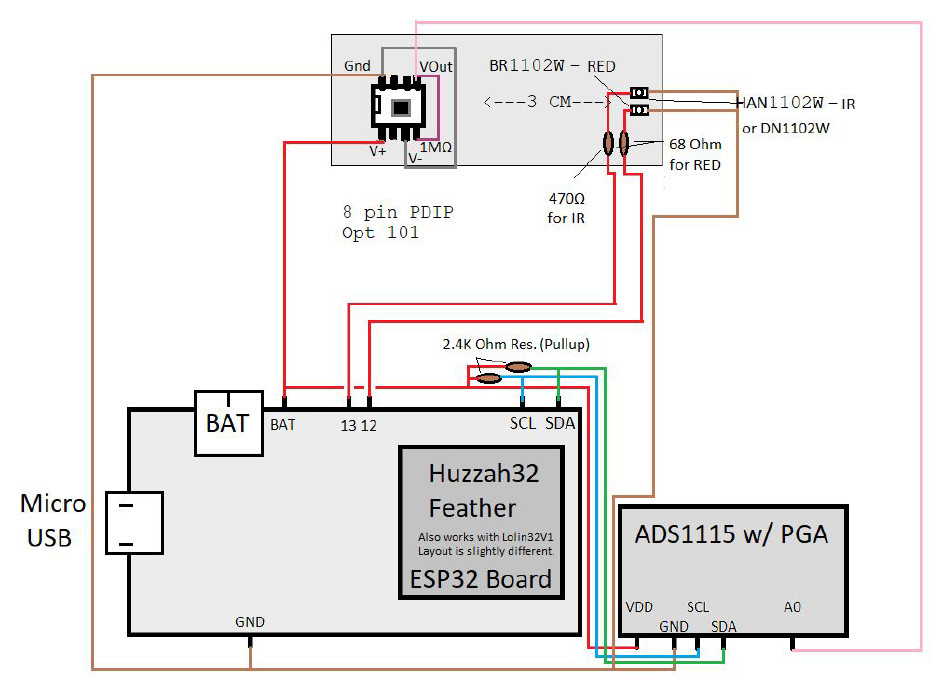
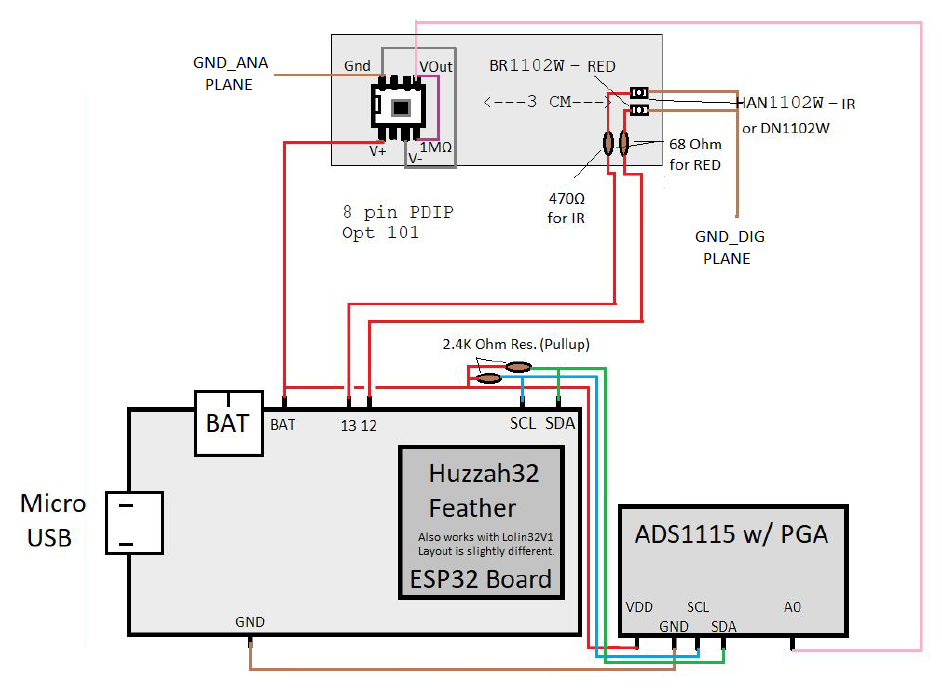
updated schematics

Changed region(s): [[0.0924, 0.0906, 0.2771, 0.9669], [0.6465, 0.3022, 0.8312, 0.9669], [0.1847, 0.0604, 0.2771, 0.1511]]

diff --git a/HEG_WIFI_BLE/HEG.h b/HEG_WIFI_BLE/HEG.h
@@ -2,8 +2,6 @@
 // Contributors - Diego Schmaedech (StateChanger Team)
 // Requires Arduino ADS1x15 library and Arduino ESP32 library, as well as a compatible ESP32 board
 
-// TEST BUILD 0.98
-// 9/13/2019
 /*
    TODO
    - HRV basic calculation, adjust LED flash rate accordingly (50ms is viable at bare min) Alternatively, get an ECG chip or use the MAX30102?
@@ -65,9 +63,9 @@ const int8_t USBRate = 0;         // No need to delay USB unless on old setups.
 const int nSensors = 2;
 const int nLEDs = 4;
 // LED GPIO pin definitions. Default LOLIN32 Pinout, commented values are TTGO T1 pins.
-int RED = 13, IR = 12, REDn = 15, IRn = 2; //Default LED GPIO. n values are LEDs used for noise cancelling.
-int IR0 = 12;    // Default left 3cm LEDs
-int RED0 = 13; //33
+int RED = 12, IR = 13, REDn = 15, IRn = 2; //Default LED GPIO. n values are LEDs used for noise cancelling.
+int IR0 = 13;    // Default left 3cm LEDs
+int RED0 = 12; //33
 int IR1 = 0;//15              // Left 1cm LEDs
 int RED1 = 18;//2
 int IR2 = 26;             // Right 1cm LEDs
@@ -198,7 +196,7 @@ bool badSignal = false;        // Bool for too high of an ADC reading
 bool signalDetermined = false; // Bool for whether the ADC reading is within desired range
 
 //Counters
-int ticks0, redTicks, irTicks, ratioTicks, adcTicks, noLEDTicks = 0;
+int ticks0, redTicks, irTicks, ratioTicks, noiseTicks, adcTicks, noLEDTicks = 0;
 
 //Scoring variables
 long redValue, irValue, rawValue = 0;
@@ -240,7 +238,7 @@ void setupHEG() {
 
   setupStateChanger();
   
-  Wire.begin(SDA0_PIN, SCL0_PIN); // Delete SDA0_PIN, SCL0_PIN if using default SDA/SCL on board
+  Wire.begin();//SDA0_PIN, SCL0_PIN); // Delete SDA0_PIN, SCL0_PIN if using default SDA/SCL on board
 
   pinMode(IR, OUTPUT);
   pinMode(RED, OUTPUT);
@@ -666,11 +664,13 @@ void get_ratio(bool isNoise, bool getPos) {
       ratioAvg += ratio;
       redAvg = redGet;
       irAvg = irGet;
+      ratioTicks++;
     }
     else {
       noiseAvg += ratio;
       rednAvg = redGet;
       irnAvg = irGet;
+      noiseTicks++;
     }
 
     if (getPos == true) {
@@ -694,8 +694,6 @@ void get_ratio(bool isNoise, bool getPos) {
     irTicks = 0;
     noLEDTicks = 0;
 
-    ratioTicks++;
-
     redValue = 0; //Reset values to get next average
     irValue = 0;
     rawValue = 0;
@@ -703,7 +701,7 @@ void get_ratio(bool isNoise, bool getPos) {
 }
 
 // Core loop for HEG sampling.
-void core_program()
+void core_program(bool doNoiseReduction)
 {
     if (adcEnabled == false)
     {
@@ -714,7 +712,12 @@ void core_program()
     if (SEND_DUMMY_VALUE != true)
     {
       // Switch LEDs back and forth.
-      switch_LEDs(RED, IR);
+      if(doNoiseReduction == true){
+        switch_LEDs(REDn, IRn);
+      }
+      else {
+        switch_LEDs(RED, IR);
+      }
       if (currentMillis - sampleMillis >= sampleRate)
       {
         // read the analog in value:
@@ -738,7 +741,12 @@ void core_program()
           }
           else
           { // GET RATIO
-            get_ratio(false, true);
+            if(doNoiseReduction == true){
+              get_ratio(true,false);
+            }
+            else{
+              get_ratio(false, true);
+            }
           }
         }
         sampleMillis = currentMillis;
@@ -763,41 +771,8 @@ void core_program()
 } // END core_program()
 
 
-
-
-//if ratioAvg > 0
-void noise_reduce() { //Experimental noise cancelling using another set of LEDs
-  digitalWrite(RED, LOW);
-  digitalWrite(IR, LOW);
-  delay(50); // 50ms delay to give LEDs time to shut down fully
-  red_led = false;
-  ir_led = false;
-  noiseAvg = 0;
-  while (noiseAvg == 0) {
-    switch_LEDs(REDn, IRn);
-    if (currentMillis - sampleMillis >= sampleRate)
-    {
-      // read the analog in value:
-      adc0 = ads.readADC_SingleEnded(adcChannel); // -1 indicates something wrong with the ADC
-      //Voltage = (adc0 * bits2mv);
-
-      // print the results to the Serial Monitor:
-      if (DEBUG_ADC == true)
-      {
-        Serial.print("ADC Value: ");
-        Serial.println(adc0);
-        //Serial.print("\tVoltage: ");
-        //Serial.println(Voltage,7);
-      }
-      else
-      {
-        get_ratio(true, false);
-      }
-      sampleMillis = currentMillis;
-    }
-    adcnAvg += adc0;
-    //adcTicks++;
-  }
+//denoising algo. Not final implementation
+void denoise(){
   denoised = ratioAvg - noiseAvg;
 }
 
@@ -812,11 +787,14 @@ void updateHEG()
       {
         ratioAvg = ratioAvg / ratioTicks;
         posAvg = posAvg / ratioTicks;
-
-
+        if((NOISE_REDUCTION == true) && (noiseTicks > 1)){
+          noiseAvg = noiseAvg / noiseTicks;
+          denoise();
+        }
  /*
 StateChanger Header Start//==================================================================================================
- */        filteredRatio = ratioAvg; //set filter
+ */        
+        filteredRatio = ratioAvg; //set filter
 
         slopeArray[slopeCounter] = largeFilter.Compute(); //circular buffer
         slopeCounter++;
@@ -853,9 +831,10 @@ StateChanger Header Start//=====================================================
  */
         //outputValue = ratioAvg;
         //output = "NO DATA";
-        if (NOISE_REDUCTION == true)
-        { 
-          output = String(currentMillis) + "|" + String(rednAvg) + "|" + String(irnAvg) + "|" + String(ratioAvg, 4) + "|" + String(denoised, 4) + "|" + String(largeFilter.Compute(), 4) + "|" + String(adcAvg, 0) + "|" + String(posAvg, 4) + "|" + String(ratioSlope, 4) + "|" + String(vAI, 4) + "\r\n";
+        if(noiseTicks > 0){ 
+            output = String(currentMillis) + "|" + String(rednAvg) + "|" + String(irnAvg) + "|" + String(ratioAvg, 4) + "|" + String(largeFilter.Compute(), 4) + "|" + String(adcAvg, 0) + "|" + String(posAvg, 4) + "|" + String(ratioSlope, 4) + "|" + String(vAI, 4) + "|" + String(denoised, 4) + "\r\n";
+            noiseAvg = 0;
+            noiseTicks = 0;
         }
         else
         {
@@ -895,12 +874,21 @@ void HEG_core_loop()
 {
   currentMillis = millis();;
   if(coreProgramEnabled == true){
-    core_program();
-  }
-  if (NOISE_REDUCTION == true) {
-    if (ratioAvg > 0) {
-      noise_reduce();
+    if(ratioTicks == 0) {
+      core_program(false);
+    }
+    else {
+      if(NOISE_REDUCTION == true) {    
+        core_program(true);
+      }
     }
   }
-  updateHEG(); 
+  if(NOISE_REDUCTION == true) {
+    if(noiseTicks > 0){
+      updateHEG(); 
+    }
+  }
+  else {
+    updateHEG();
+  }
 }

diff --git a/README.md b/README.md
@@ -47,7 +47,7 @@ We used cheap perfboard to mount our DIY prototypes. For the sensor we used a pr
 
 1. Cut your wire leads to be the desired length between the sensor, which goes on your forehead, and the receiver. Sensor-only or ADC to ESP32 leads should be the shortest distance, which will vary for different setups so use your judgment.
 
-2. Wire it up based on the above schematics diagram. The anode marks on the LEDs are green. Use a 6 pin SOT23 socket to mount the SMT LEDs, they should only be a few cents. Use electrical tape to cover any pins or wires exposed so they do not contact your forehead.
+2. Wire it up based on the above schematics diagram. The anode marks on the LEDs are green. Use a 6 pin SOT23 socket to mount the SMT LEDs, they should only be a few cents. Use electrical tape to cover any pins or wires exposed so they do not contact your forehead. Ensure each component is grounded separately to minimize noise and crosstalk (made that mistake).
 
 3. Install ESP32 firmware on device via Arduino IDE. Requires [ADS1x15 library](https://github.com/adafruit/Adafruit_ADS1X15) and [arduino ESP32 library](https://github.com/espressif/arduino-esp32) 
 
